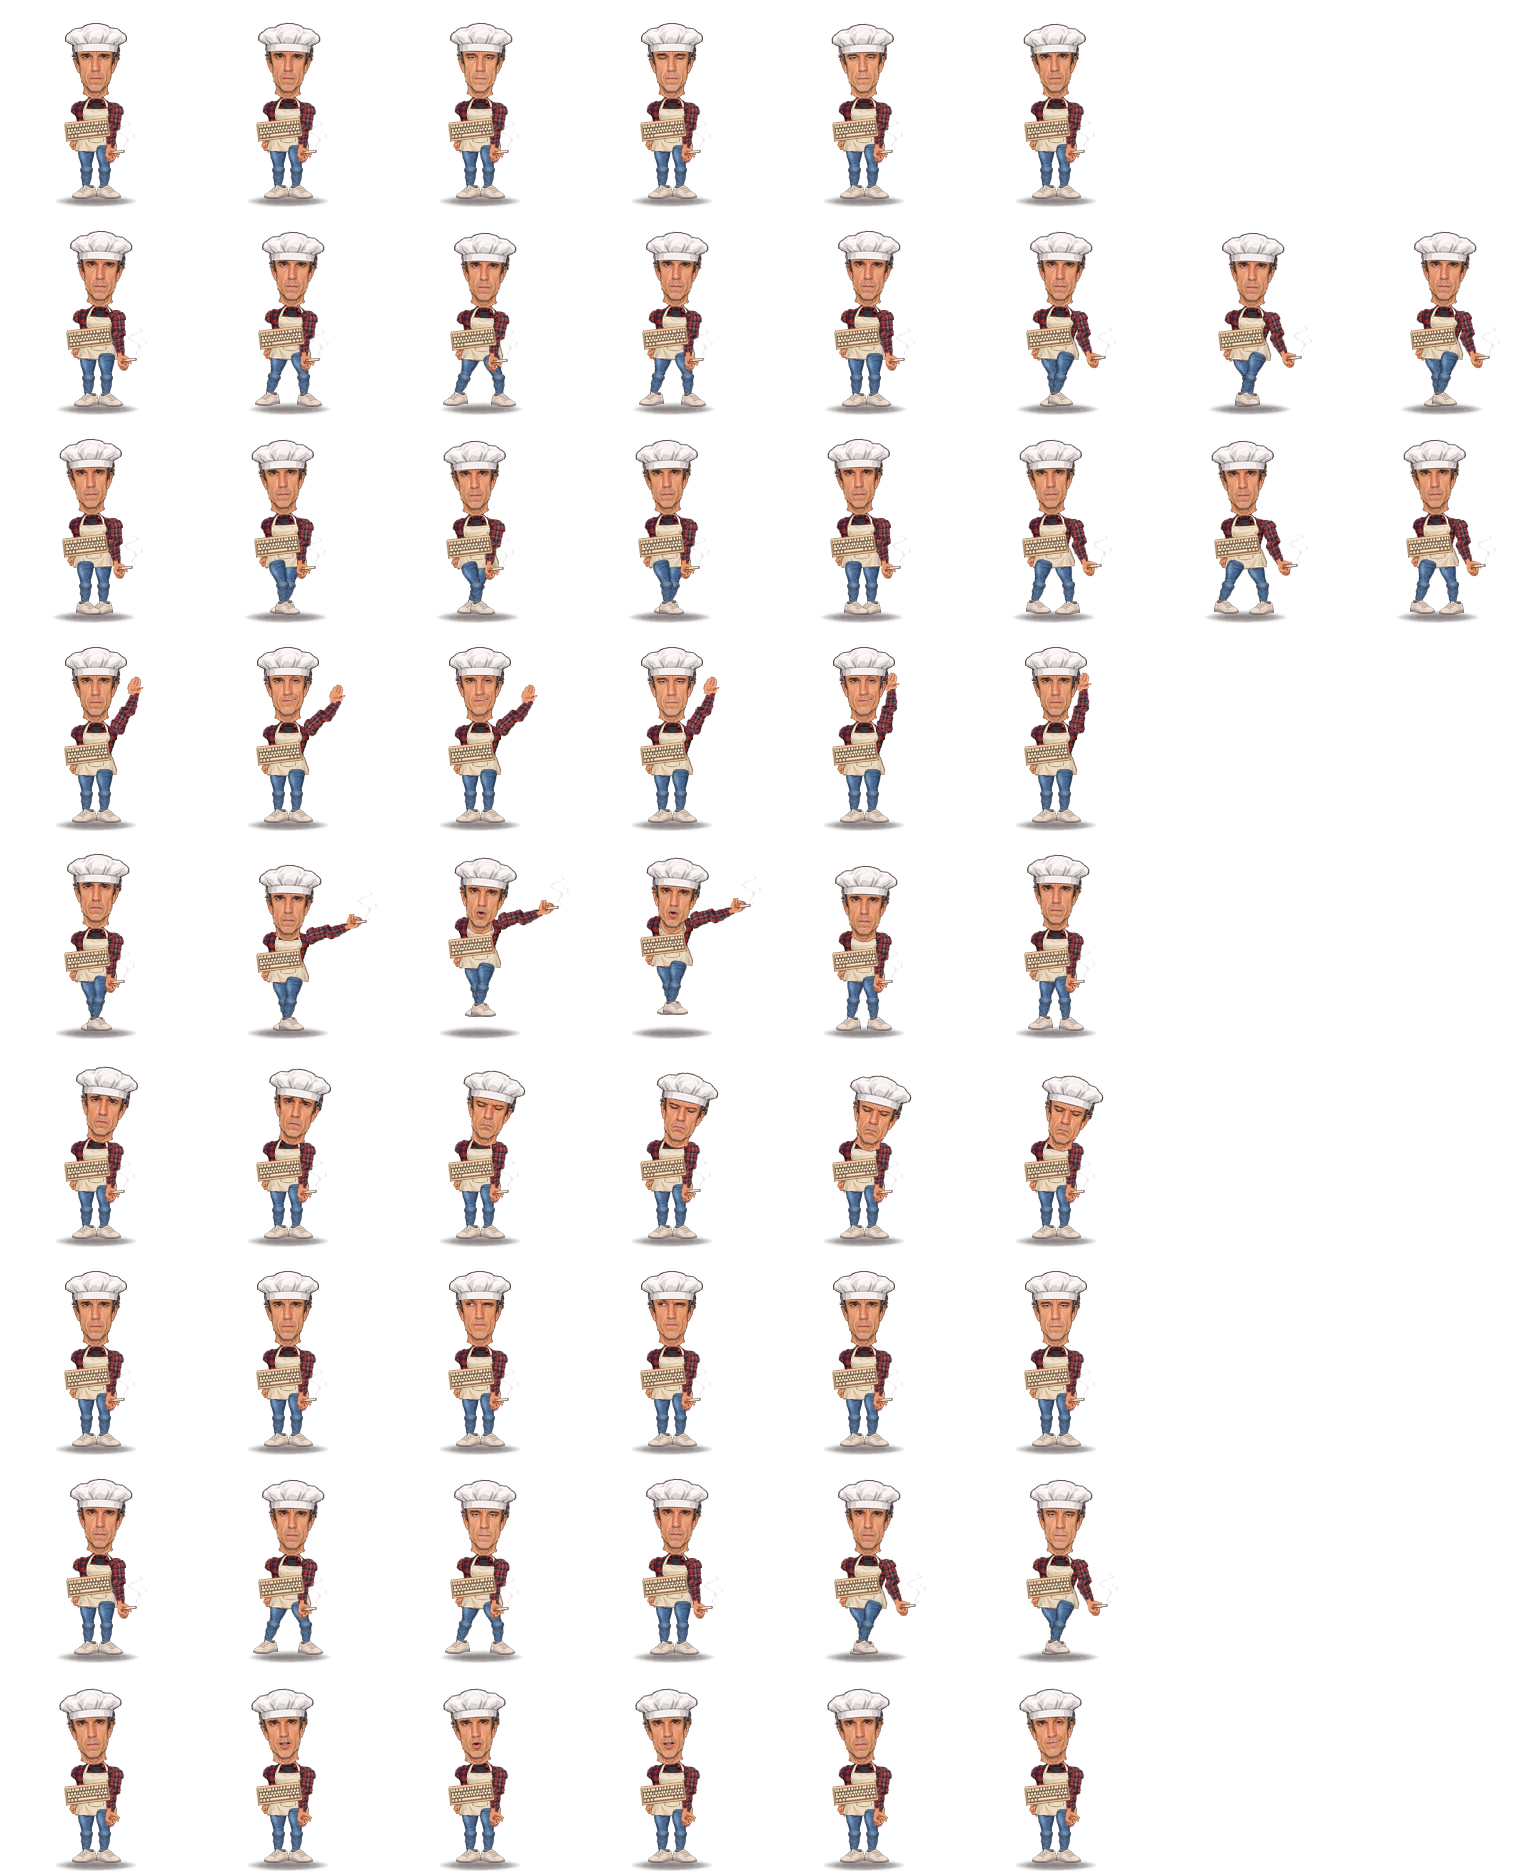
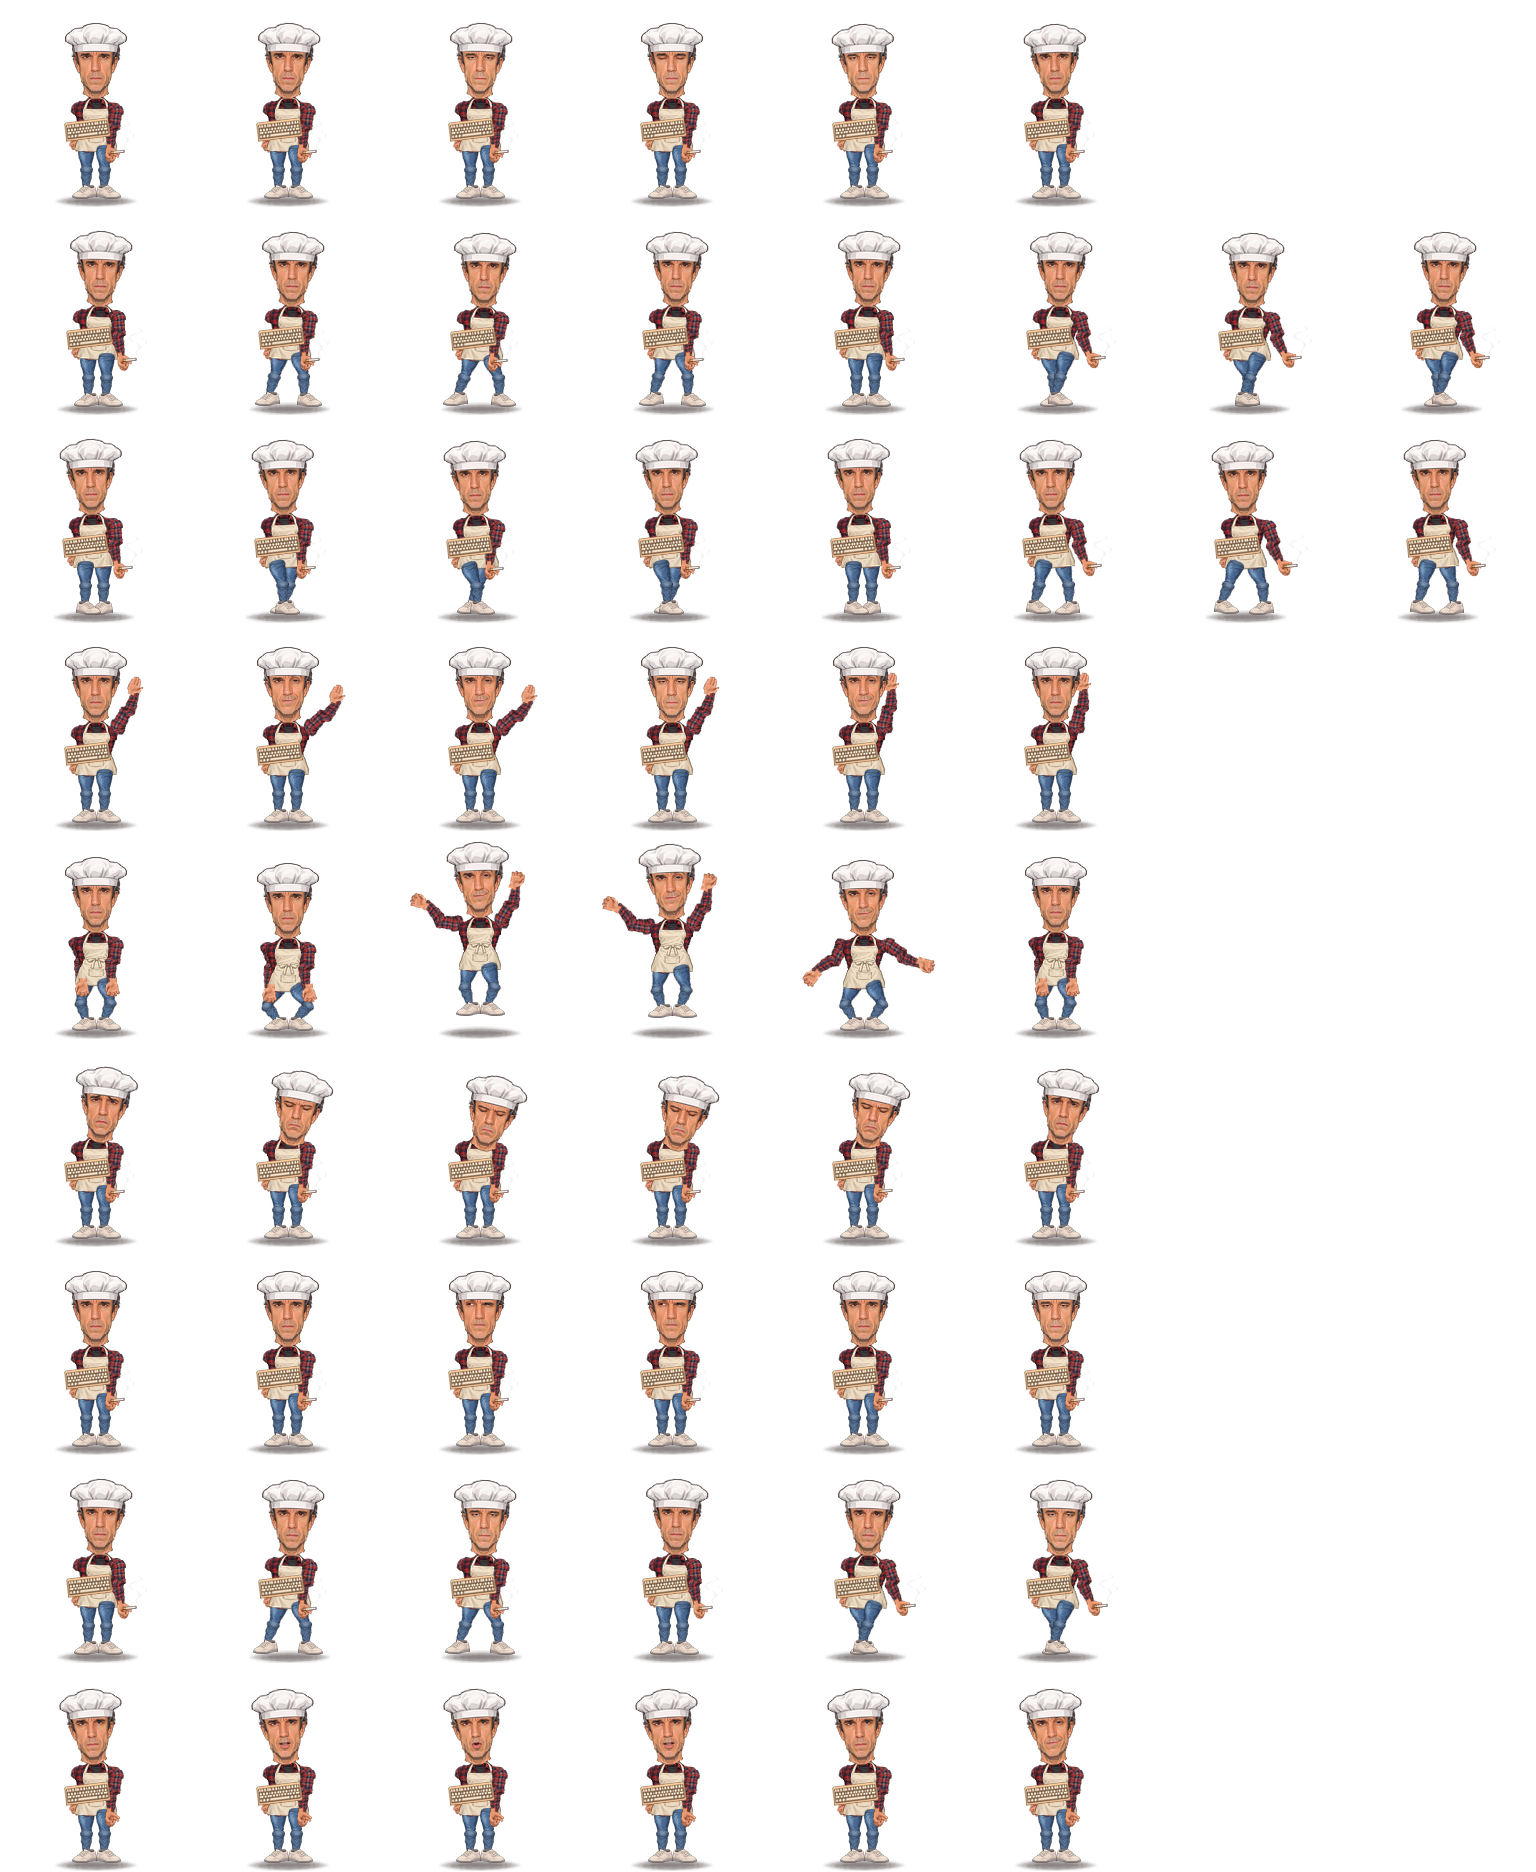
art: update Terry companion atlases to revision 2

diff --git a/desktop/assets/companion/terry/README.md b/desktop/assets/companion/terry/README.md
@@ -13,3 +13,7 @@ product and invent no quotes.
 
 Enabled by default in the plugin. Hide in the pane, or set `companion: off` /
 `TEMPLEOS_COMPANION=off`.
+
+Revision 2 adds stronger chin/jaw stubble, a cleaner fallback smoke layer, a
+cushioned success jump and a smoother failure recovery. Optional rich presets
+from the art handoff are not wired into the plugin yet.
